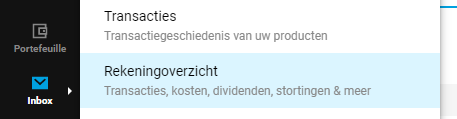
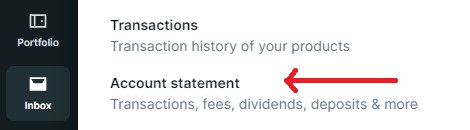
DEGIRO: Add warning when wrong export format is used (#97)

diff --git a/src/converters/degiroConverterV2.ts b/src/converters/degiroConverterV2.ts
@@ -41,6 +41,13 @@ export class DeGiroConverterV2 extends AbstractConverter {
 
         if (err) {
           errorMsg += ` Details: ${err.message}`
+
+          // Temporary error check for Transactions.csv
+          if (err.message.indexOf("length is 12, got 19")) {
+            console.error("[i] Detecting wrong input format. Have you exported the correct CSV file?");
+            console.error("[i] Export to Ghostfolio only supports Account.csv, not Transactions.csv!");
+            console.error("[i] See the export instructions in the README at https://git.new/JjA86vv");
+          }
         }
 
         return errorCallback(new Error(errorMsg))
